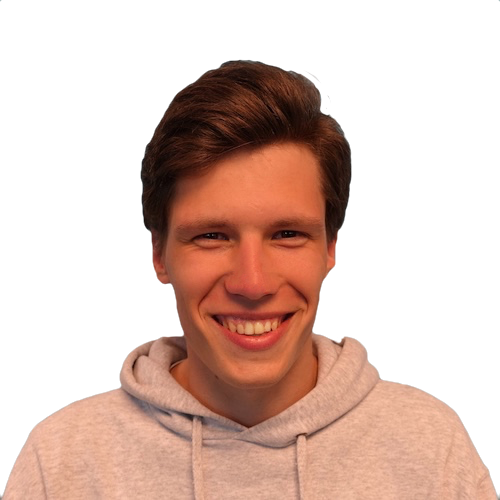
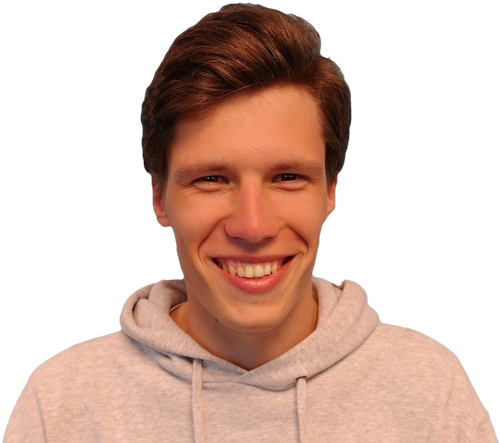
no titles in .info

diff --git a/src/styles.scss b/src/styles.scss
@@ -47,7 +47,9 @@ body {
 
 img {
 	max-width: 100%;
+	margin: 0 auto;
 	display: block;
+	max-height: 10em;
 }
 
 h1 a {
@@ -105,8 +107,8 @@ nav {
 		display: inline-block;
 		background-color: $accent;
 		border-radius: 2px;
-		padding: 0.1em;
-		margin: 0 0.6em;
+		padding: .1em;
+		margin: 0 .6em;
 		&:hover,
 		&:focus {
 			background-color: lighten($accent, 10%);
@@ -119,7 +121,7 @@ nav {
 	a {
 		color: $light !important;
 		text-decoration: none;
-		padding: 1em 0.4em;
+		padding: 1em .4em;
 	}
 	@media print {
 		display: none;
@@ -132,38 +134,32 @@ dd {
 
 dt {
 	margin: .3em 0 .3em 0;
-	font-weight: 500;
+	font-weight: 600;
+}
+
+.info {
+	border: 3px solid $accent;
+	border-radius: 5px;
+
+	ul {
+		list-style-type: none;
+		padding: 0;
+	}
+
+	li {
+		margin: .5em 0;
+	}
 }
 
 .side {
-	padding: 0.5em;
+	padding: .5em;
 	padding-bottom: 0;
 	width: 19%;
 	float: left;
-	border: 3px solid $accent;
-	border-radius: 5px;
 	margin-right: 2%;
 	@media screen and (max-width: $break-large) {
 		width: 100%;
 		margin: 1em auto;
-		@media screen and (min-width: $break-side-small) {
-			dt {
-				clear: left;
-				float: left;
-				width: 20%;
-				margin-right: 1em;
-			}
-			dd {
-				float: left;
-				width: 60%;
-				margin: 0.2em;
-			}
-		}
-	}
-	@media screen and (max-width: $break-side) {
-		dd {
-			margin-left: 0;
-		}
 	}
 }
 
@@ -179,7 +175,7 @@ dt {
 	dd {
 		float: left;
 		width: 75%;
-		margin: 0.2em;
+		margin: .2em;
 		p {
 			margin: 0;
 		}

diff --git a/_includes/fr-BE.html b/_includes/fr-BE.html
@@ -1,16 +1,12 @@
 <section class="wrapper" data-view="fr" lang="fr-BE">
   <section class="info side">
     <h2>Information</h2>
-    <dl>
-      <dt>Nom:</dt>
-      <dd>Haroen Viaene</dd>
-      <dt>Location:</dt>
-      <dd>Bruges, Gand</dd>
-      <dt>Courriel:</dt>
-      <dd><a href="mailto:%22Haroen%20Viaene%22%20%3chello@haroen.me%3e?subject=offre%20d%27emploi">hello@haroen.me</a></dd>
-      <dt>Née:</dt>
-      <dd><time datetime="1995-10-16">16-oct-1995</time></dd>
-    </dl>
+    <ul>
+      <li>Haroen Viaene</li>
+      <li>Bruges, Gand</li>
+      <li><a href="mailto:%22Haroen%20Viaene%22%20%3chello@haroen.me%3e?subject=offre%20d%27emploi">hello@haroen.me</a></li>
+      <li><time datetime="1995-10-16">16-oct-1995</time></li>
+    </ul>
     <img src="/src/me.png" alt="my head">
   </section>
   <div class="main">

diff --git a/_includes/nl-BE.html b/_includes/nl-BE.html
@@ -1,16 +1,12 @@
 <section class="wrapper" data-view="nl" lang="nl-BE">
   <section class="info side">
     <h2>Informatie</h2>
-    <dl>
-      <dt>Naam:</dt>
-      <dd>Haroen Viaene</dd>
-      <dt>Locatie:</dt>
-      <dd>Brugge, Gent</dd>
-      <dt>e-mail:</dt>
-      <dd><a href="mailto:%22Haroen%20Viaene%22%20%3chello@haroen.me%3e?subject=Jobaanbieding">hello@haroen.me</a></dd>
-      <dt>Geboren:</dt>
-      <dd><time datetime="1995-10-16">16-okt-1995</time></dd>
-    </dl>
+    <ul>
+      <li>Haroen Viaene</li>
+      <li>Brugge, Gent</li>
+      <li><a href="mailto:%22Haroen%20Viaene%22%20%3chello@haroen.me%3e?subject=Jobaanbieding">hello@haroen.me</a></li>
+      <li><time datetime="1995-10-16">16-okt-1995</time></li>
+    </ul>
     <img src="/src/me.png" alt="my head">
   </section>
   <div class="main">

diff --git a/_includes/en-GB.html b/_includes/en-GB.html
@@ -1,16 +1,12 @@
 <section class="wrapper" data-view="en" lang="en-GB">
   <section class="info side">
     <h2>Information</h2>
-    <dl>
-      <dt>Name:</dt>
-      <dd>Haroen Viaene</dd>
-      <dt>Location:</dt>
-      <dd>Bruges, Ghent</dd>
-      <dt>Email:</dt>
-      <dd><a href="mailto:%22Haroen%20Viaene%22%20%3chello@haroen.me%3e?subject=Job%20Offer">hello@haroen.me</a></dd>
-      <dt>Born:</dt>
-      <dd><time datetime="1995-10-16">16-Oct-1995</time></dd>
-    </dl>
+    <ul>
+      <li>Haroen Viaene</li>
+      <li>Bruges, Ghent</li>
+      <li><a href="mailto:%22Haroen%20Viaene%22%20%3chello@haroen.me%3e?subject=Job%20Offer">hello@haroen.me</a></li>
+      <li><time datetime="1995-10-16">16-Oct-1995</time></li>
+    </ul>
     <img src="/src/me.png" alt="my head">
   </section>
   <div class="main">
